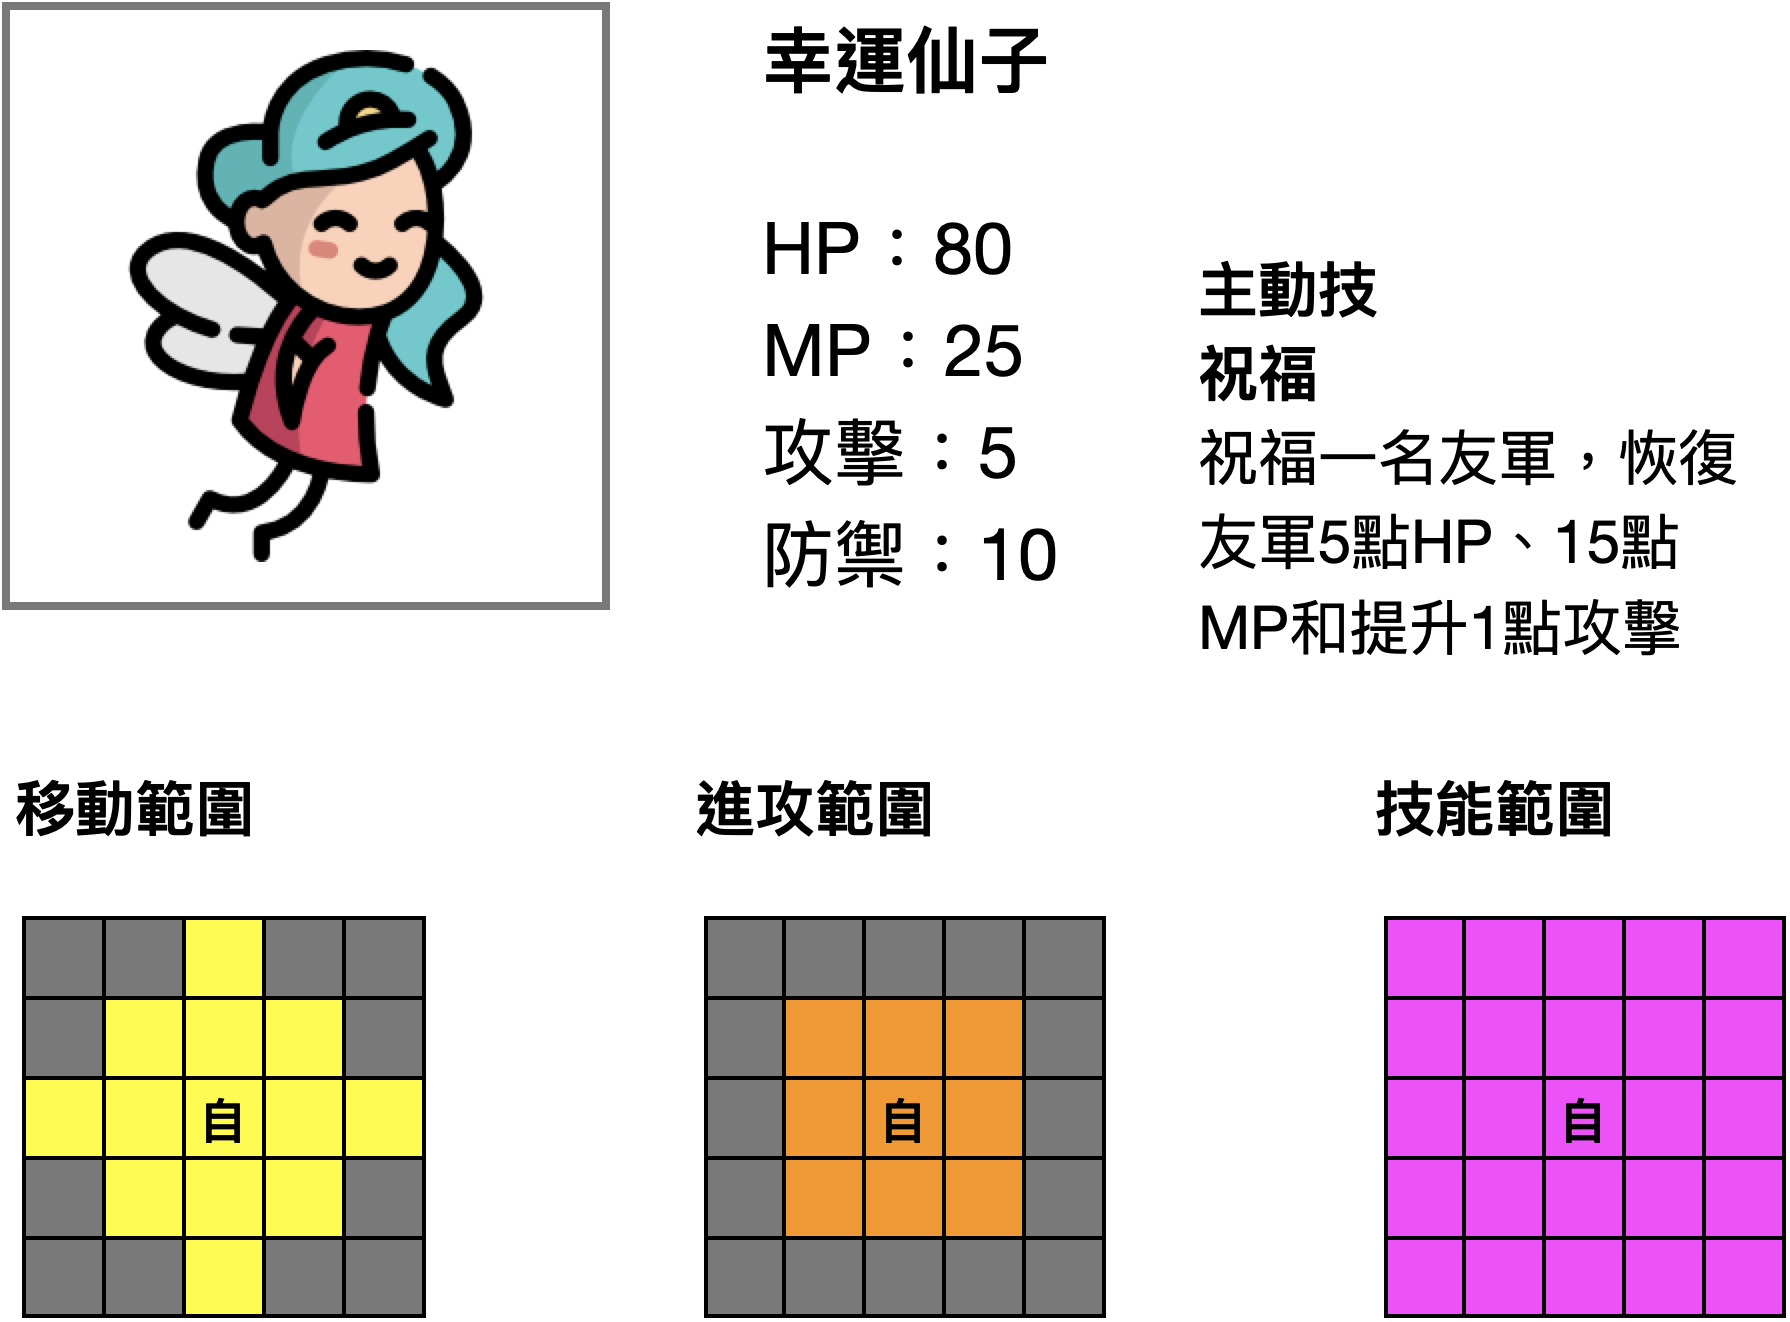
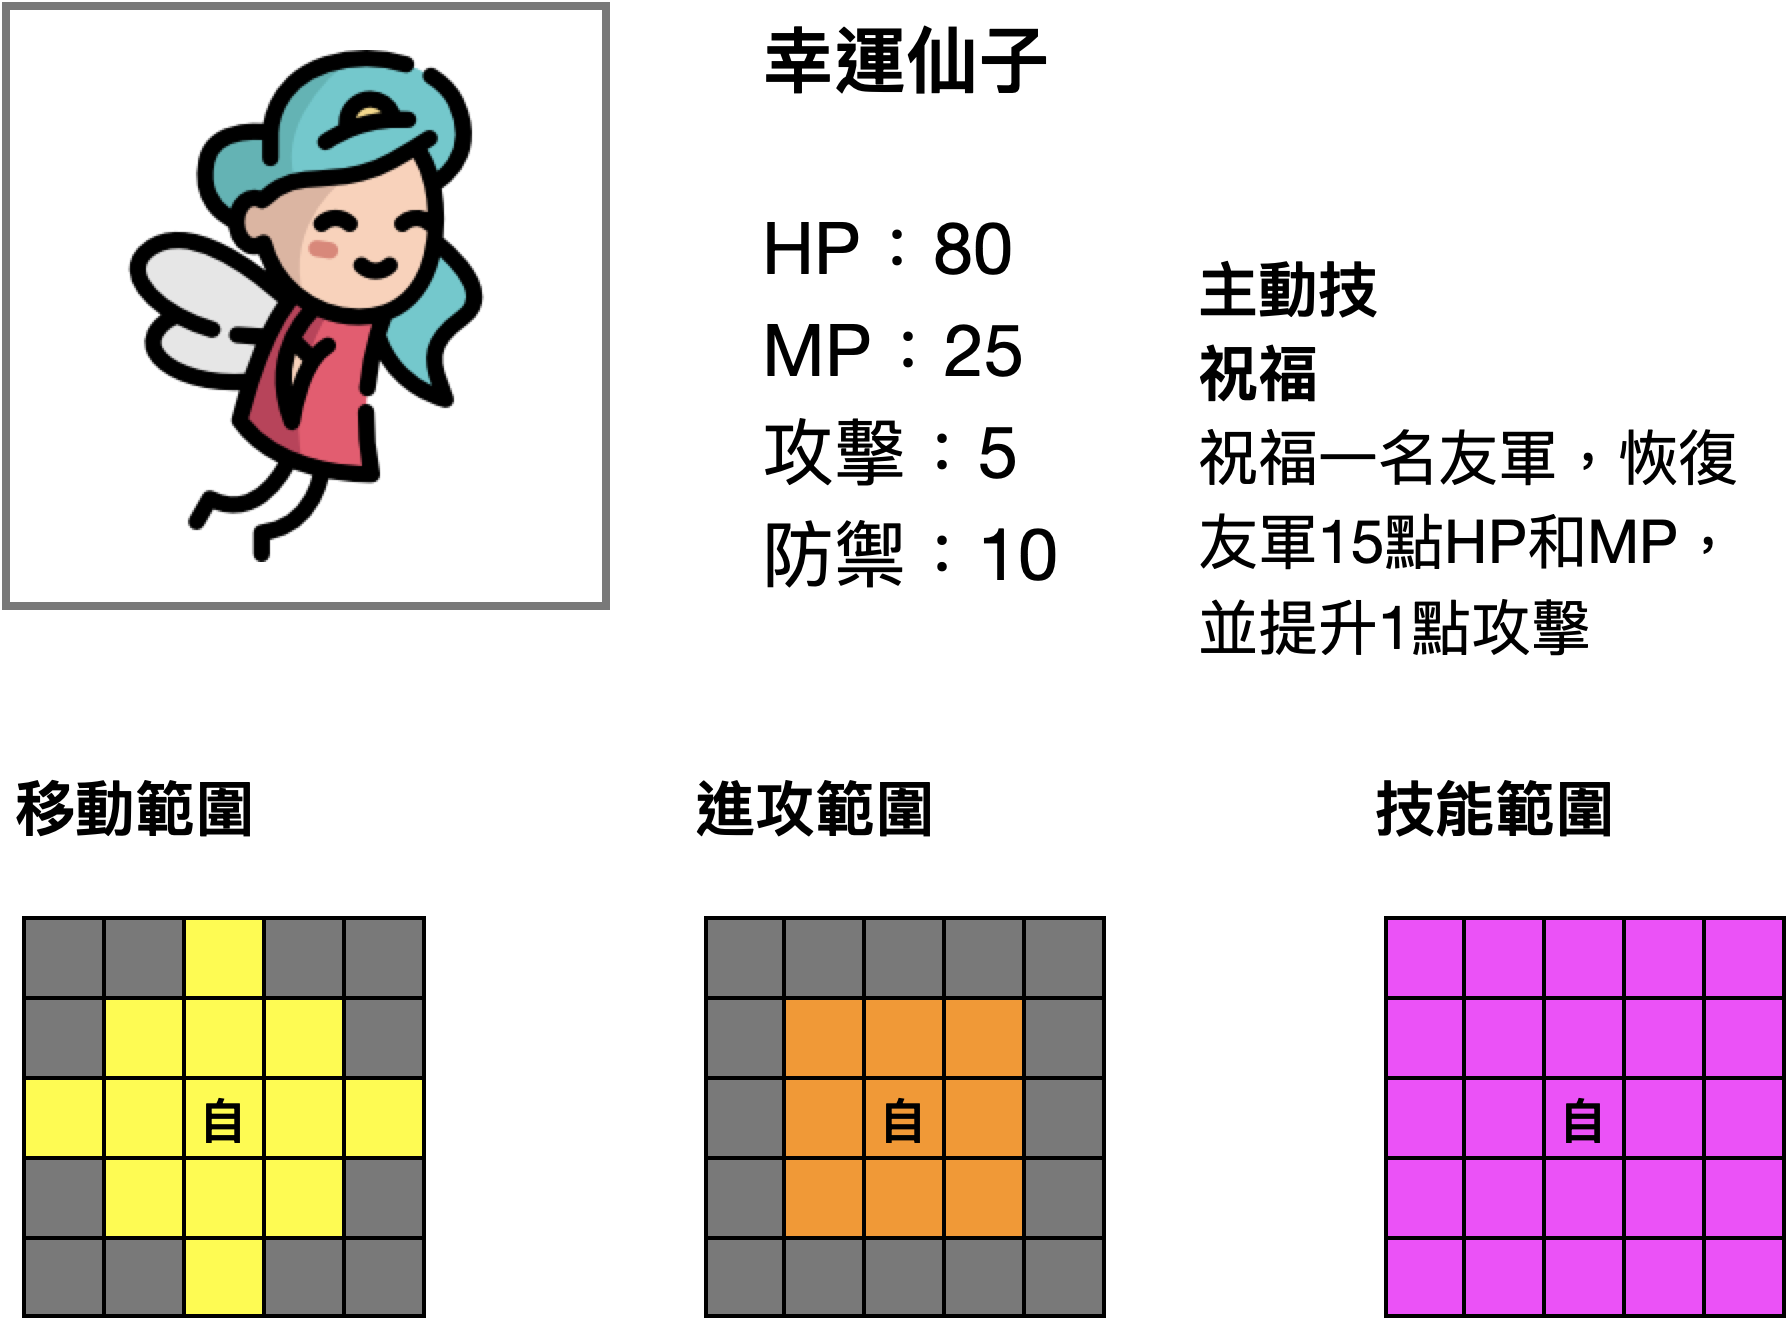
Balance(2)

Changed region(s): [[0.6453, 0.3722, 0.9525, 0.4962]]

diff --git a/src/SkillInterface.js b/src/SkillInterface.js
@@ -124,11 +124,11 @@ const skill_海盜砲 = {
     targetType: TargetType.ENEMY,
 
     targetRange: [
-        [1,1,1,1,1],
-        [1,1,1,1,1],
+        [0,0,1,0,0],
+        [0,1,1,1,0],
         [1,1,0,1,1],
-        [1,1,1,1,1],
-        [1,1,1,1,1]
+        [0,1,1,1,0],
+        [0,0,1,0,0]
     ],
     selectTarget(receiverBoards){
         const idx = Math.floor(Math.random() * receiverBoards.length);
@@ -192,7 +192,7 @@ const skill_祝福 = {
         
         receiver.core.atk += 1;
         receiver.mp.decrease(-15);
-        receiver.hp.decrease(-5);
+        receiver.hp.decrease(-15);
     }
 }
 
